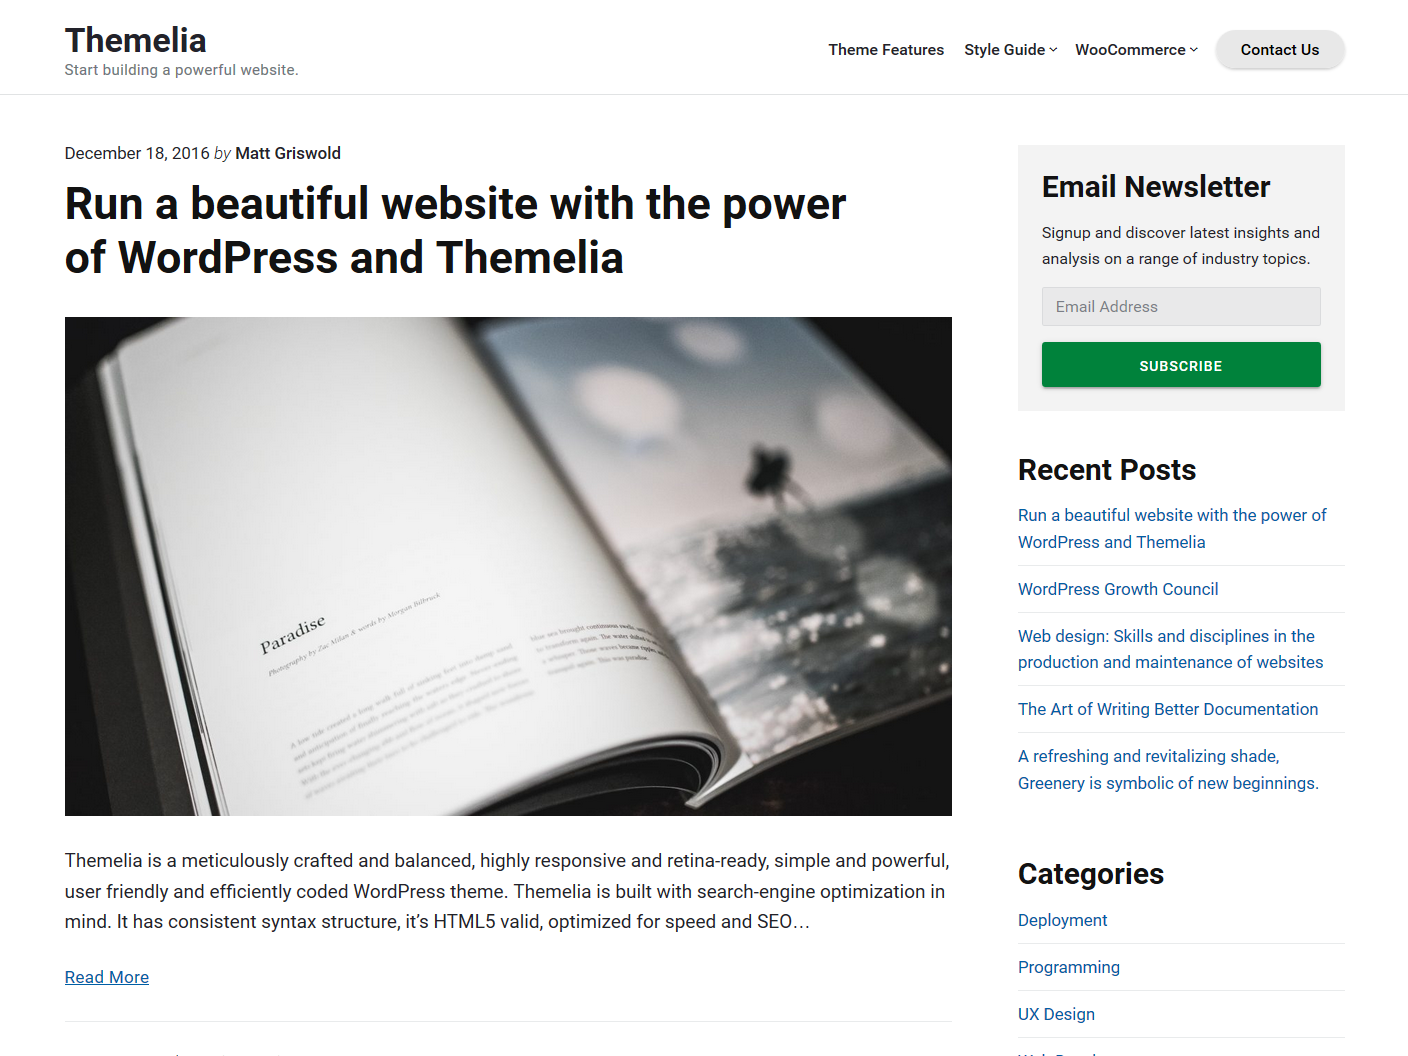
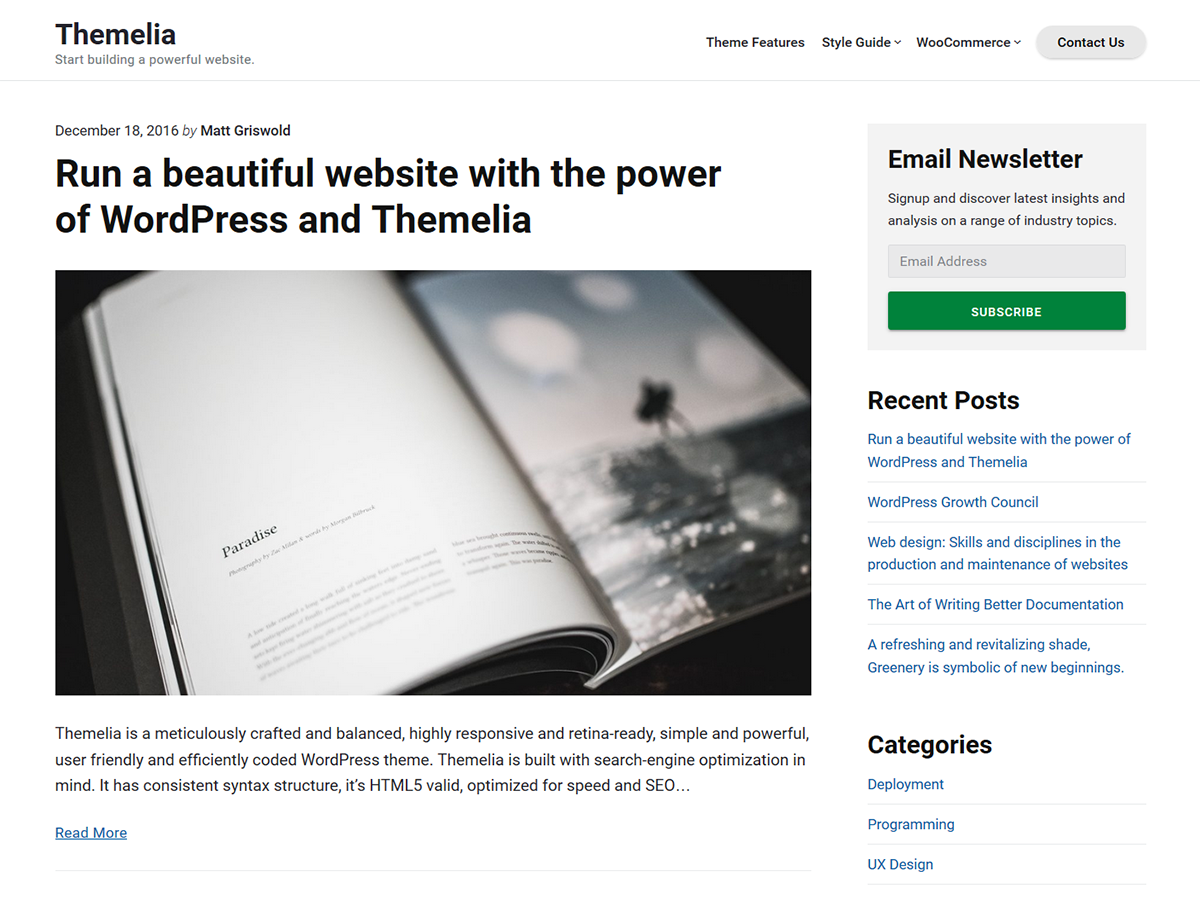
Optimized screenshot.png

diff --git a/CHANGELOG.md b/CHANGELOG.md
@@ -3,8 +3,13 @@ Change Log
 
 All notable changes to Themelia will be documented in this file. This changelog adheres to [Semantic Versioning](http://semver.org/). Version format will look like `3.2.1` where `3` is the major release, `2` is the minor release, and `1` is the patch release.
 
-v1.0.10 - 2016-12-15
+v1.0.10 - 2016-12-19
 --------------------
+
+### New
+
+-	Added support for the JetPack infinite scroll.
+-	New screenshot.png
 
 ### Changed
 
@@ -13,8 +18,7 @@ v1.0.10 - 2016-12-15
 
 ### Updated
 
--	CSS optimization
--	Small change of post-byline in content templates
+-	Lots of cosmetic changes in various files.
 
 v1.0.9 - 2016-12-13
 -------------------
@@ -22,6 +26,10 @@ v1.0.9 - 2016-12-13
 ### Fixed
 
 -	Added correct version of Ionicons
+
+### Changed
+
+-	Added sanitize.css in place of normalize.css
 
 ### Updated
 
